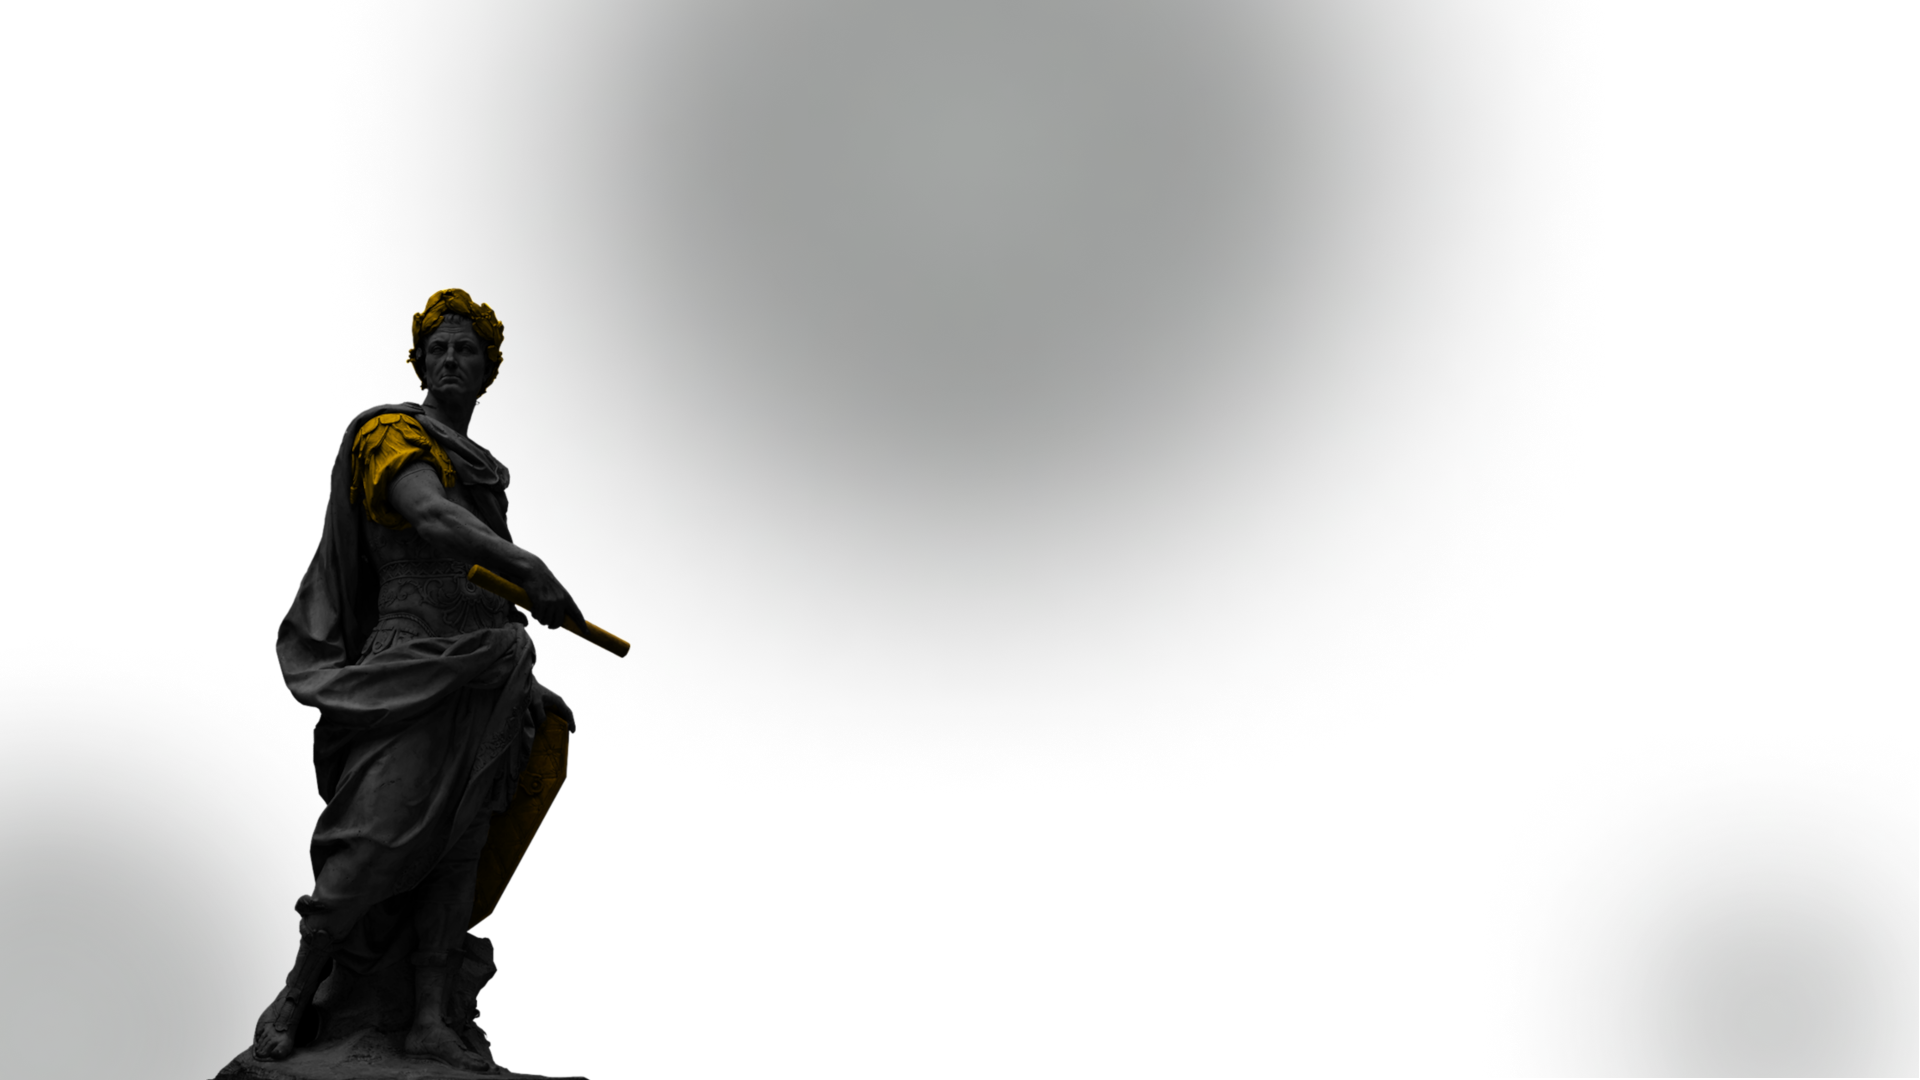
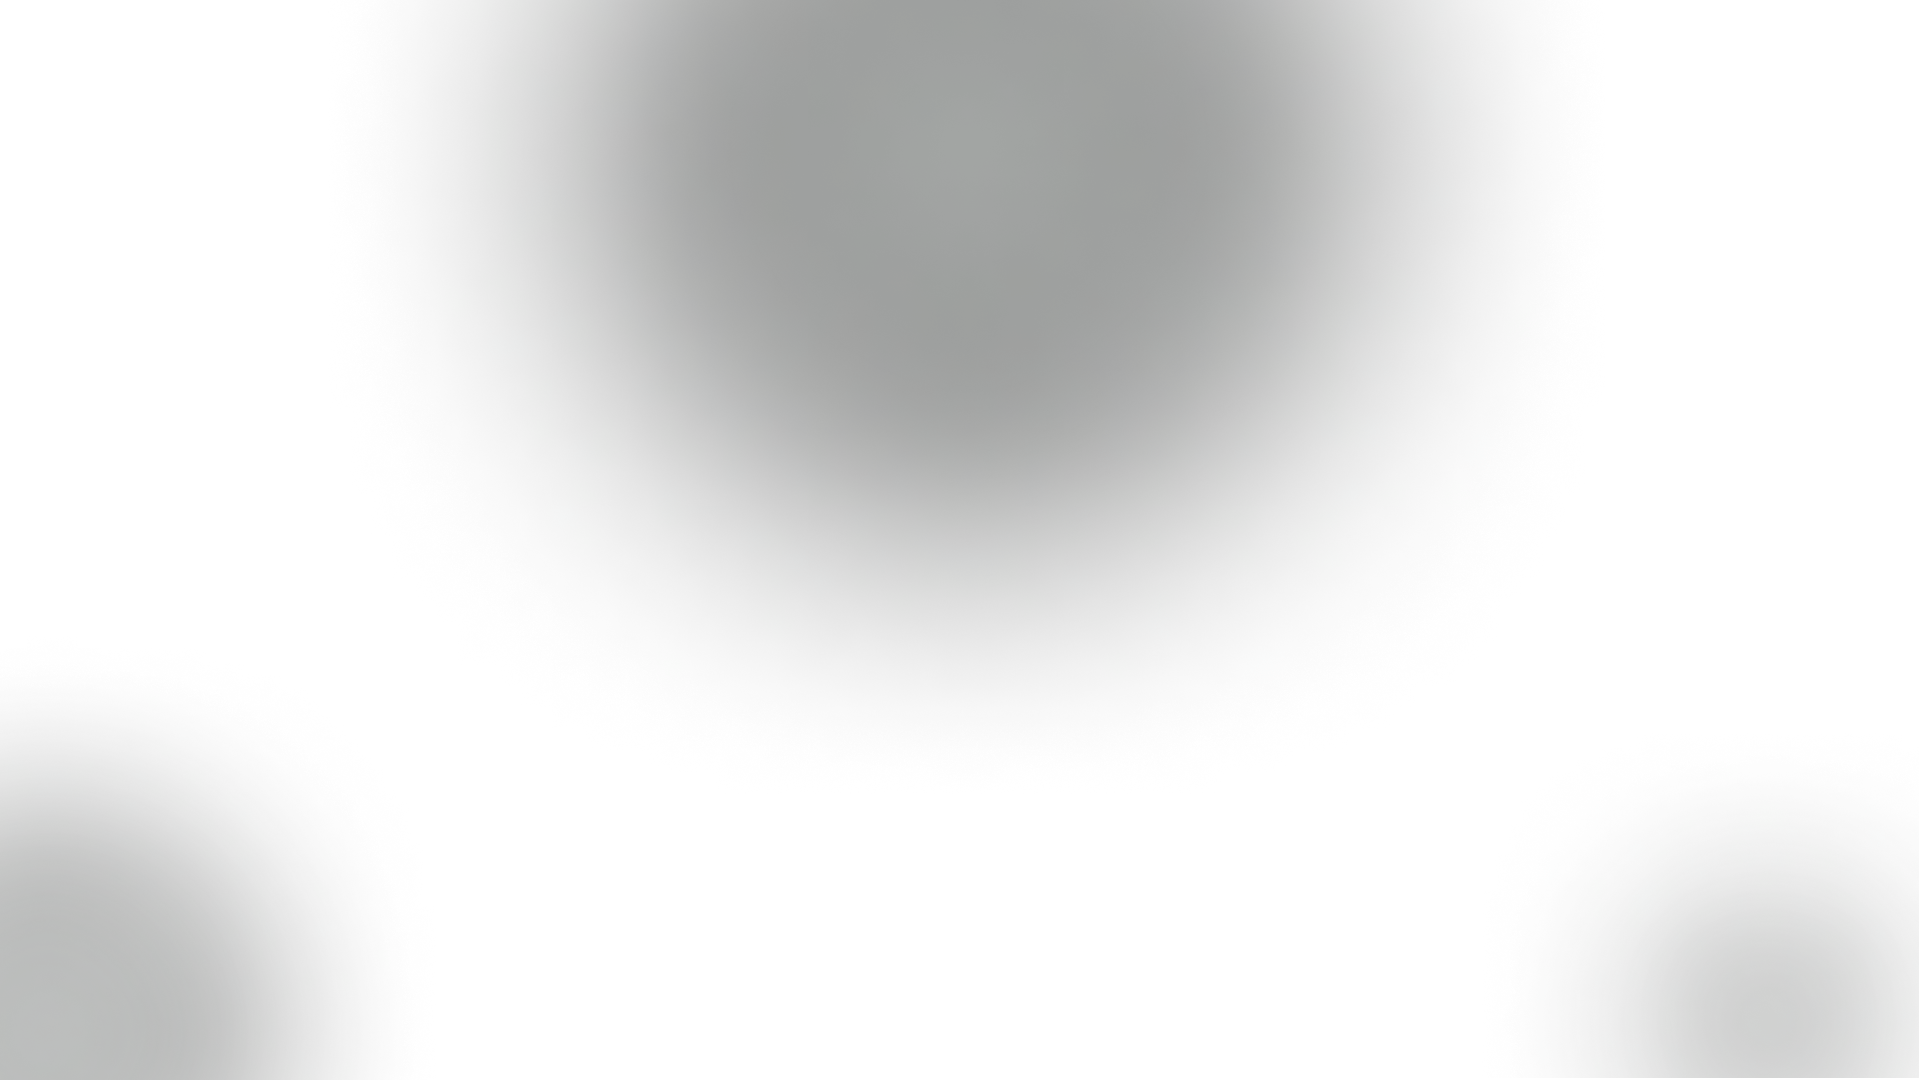
New UI changes for swap and pool page

Changed region(s): [[0.0938, 0.2444, 0.3438, 1.0]]

diff --git a/src/styles/index.css b/src/styles/index.css
@@ -188,7 +188,7 @@ a {
     border-radius: 24px;
 }
 
-/*@media(min-width: 640px){
+@media(min-width: 640px){
   .switch {
     background-image: url(../../public/Aveswap-bg.png);
     background-position: bottom left;
@@ -196,13 +196,12 @@ a {
     background-repeat: no-repeat; 
   }
   .switch-white {
-    background-image: url(../../public/Aveswap-bg-white.png);
+    background-image: none;
     background-position: bottom left;
     background-size: cover;
     background-repeat: no-repeat;
   }
 }
-*/
 
 .-mb-6 {
     margin-bottom: -1rem;
